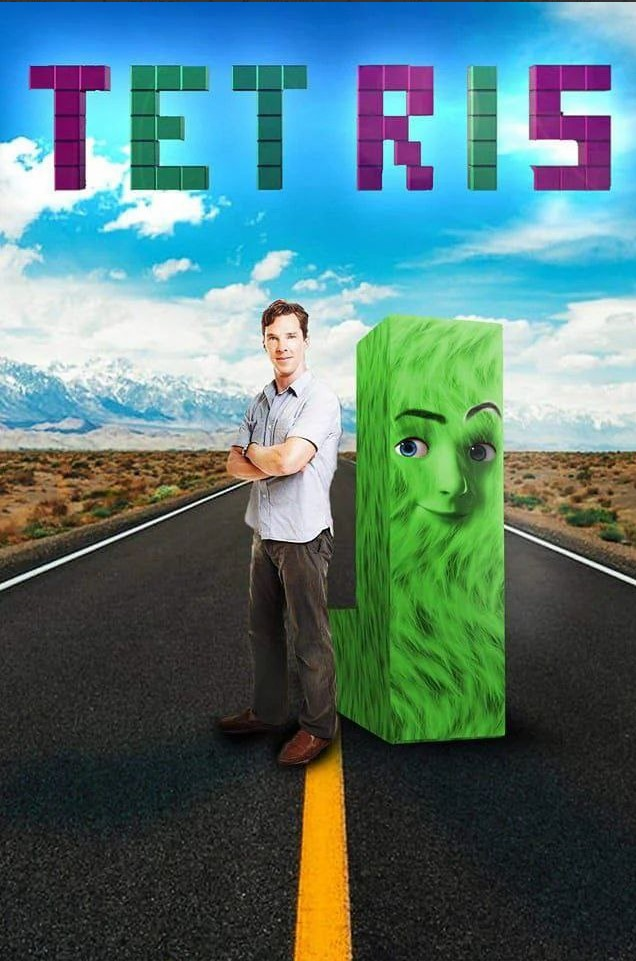
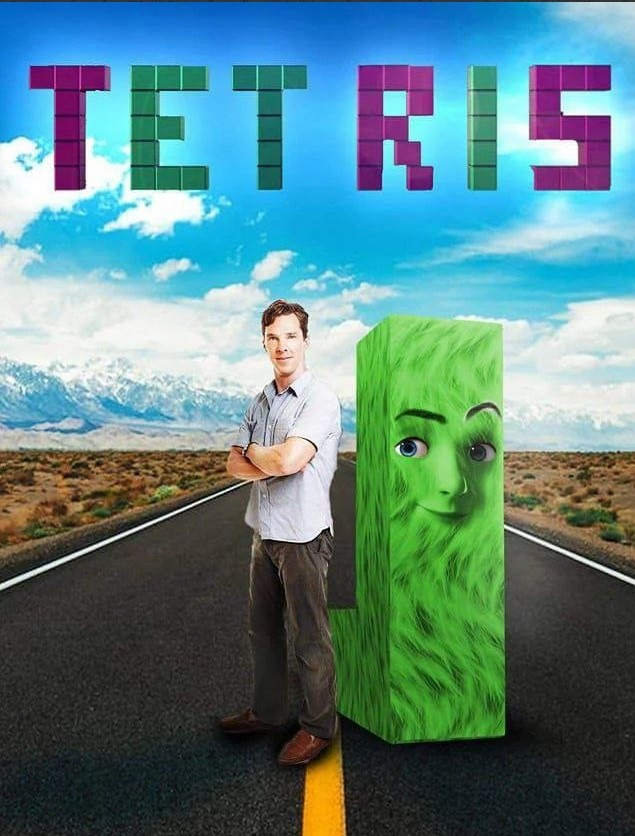
Lab #1 page 3 fix

diff --git a/Lab #1/page3.html b/Lab #1/page3.html
@@ -26,7 +26,7 @@
 </header>
 <main>
     <div class="block-2">
-        <img src="img/tetris.jpg" alt="Tetris" width="90%">
+        <img src="img/tetris.jpg" alt="Tetris" width="100%">
     </div>
     <div class="block-3">
         <h2 class="menu-title">Pages:</h2>
